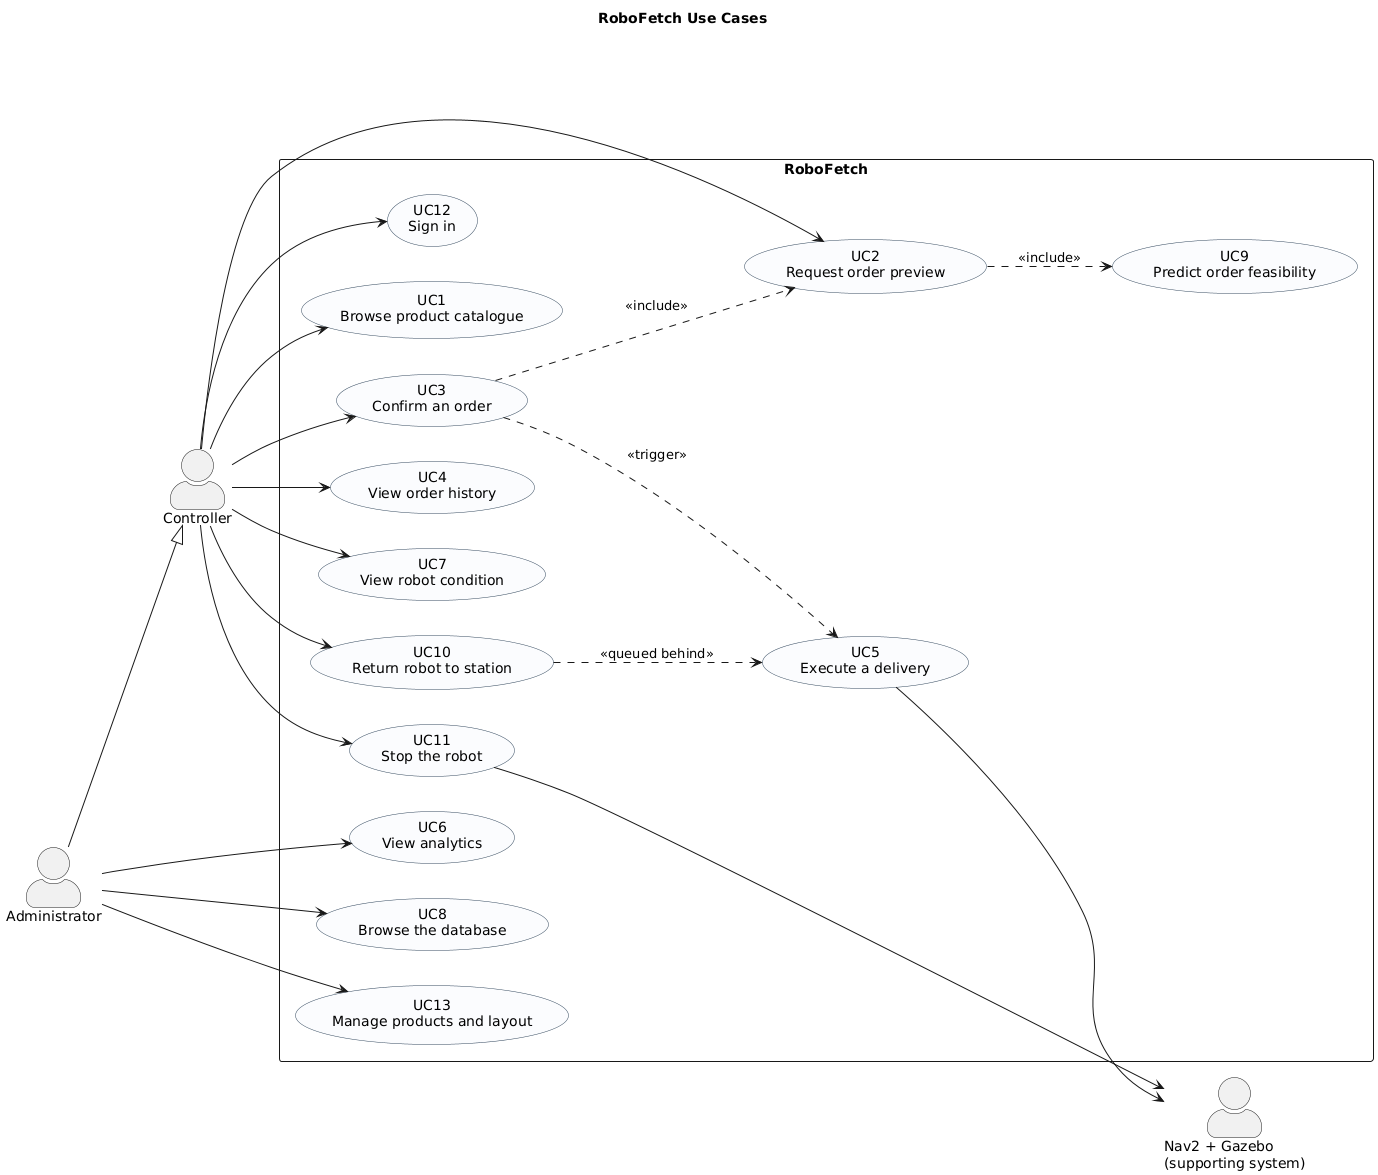
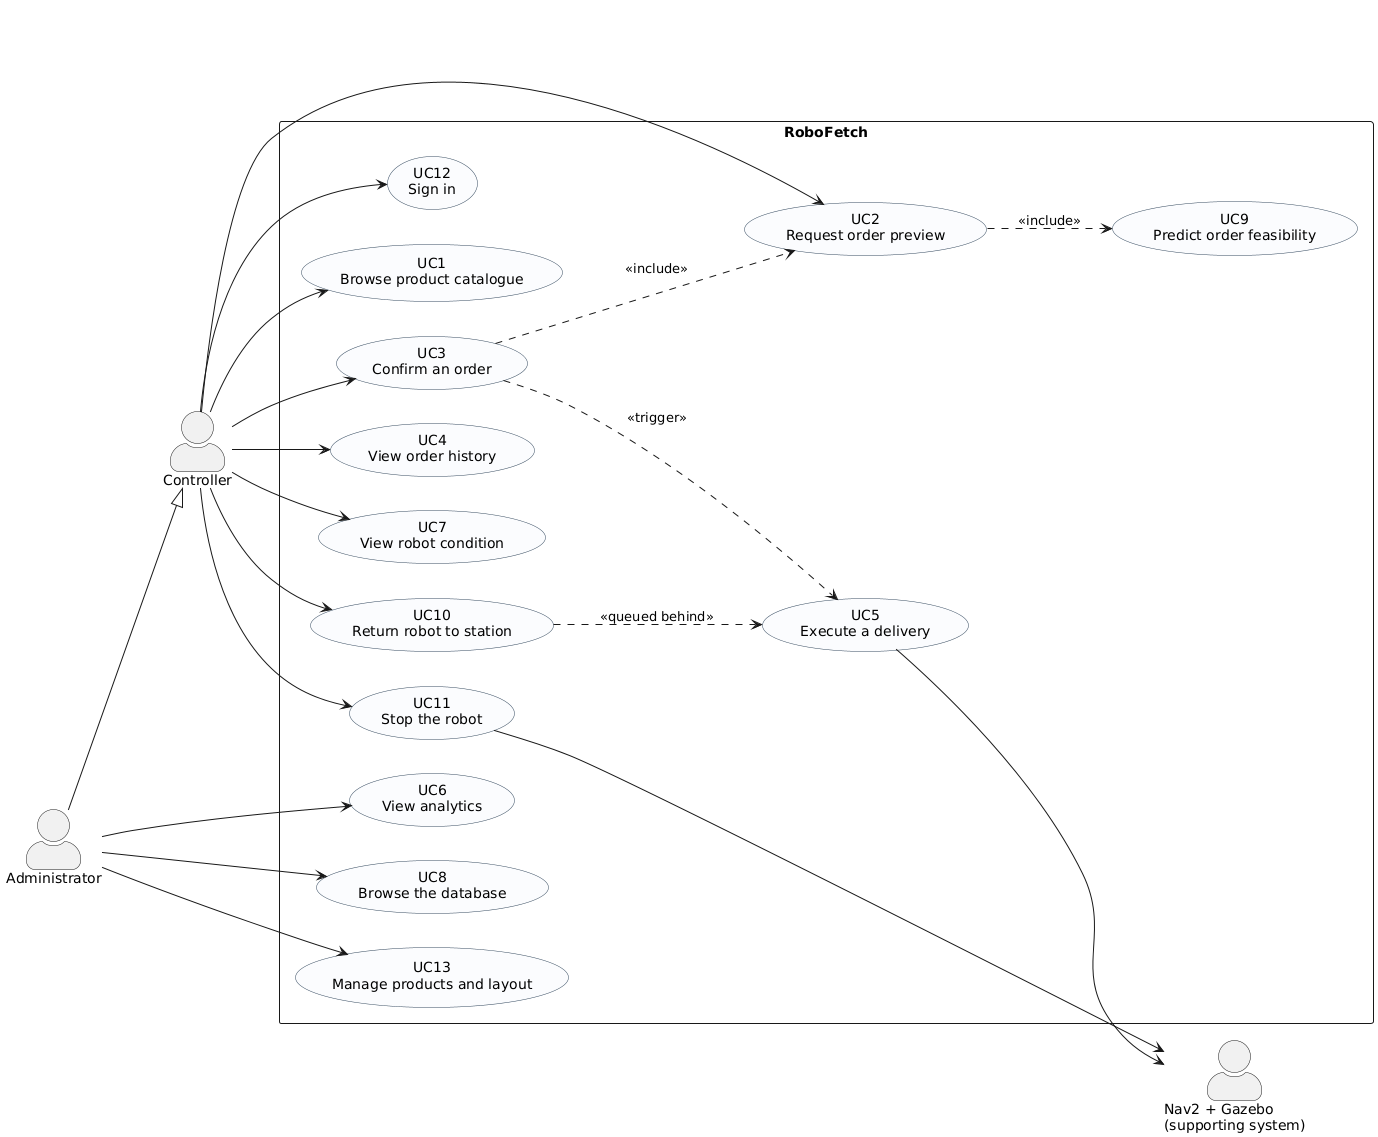
Diagrams: drop the titles and the prose, explain them in the report instead
Every diagram carried a title rendered above it, which duplicated the LaTeX
caption immediately below - the caption is where a figure is named in a report,
so the titles were saying everything twice. Removed from all twelve.

The sequence diagrams also carried paragraphs of explanation as notes. That
text belongs in the report, where it can be read as prose, not baked into an
image where it cannot be edited or searched. The arguments they made - that a
refusal costs one preview because nothing is stored and the robot is never
sent; that the stop writes nothing and so does not survive a logout - are
already carried by the figure captions, so they are removed from the pictures.

Two short annotations survive on the C3 diagram because they mark control flow
rather than argue a point: that the stuck-parcel branch ends the order, and
that a missing measurement counts as failure.

One detail was rescued rather than dropped. The note explaining that the joint
publishes its state only on a TRANSITION, so the subscription must exist before
the release rather than being created at the moment of it, was the only place
that trap was recorded. It is now in the C3 algorithm in the text.

The diagrams are smaller for it: C3 from 157 to 116 kB, the emergency stop from
69 to 58, the refusal from 63 to 53, and the last two are now wider than tall.

diff --git a/report/RoboFetch_Software_Engineering_Report.tex b/report/RoboFetch_Software_Engineering_Report.tex
@@ -1668,7 +1668,10 @@ sequence; the steps are as follows.
   \item Publish a detach message for the parcel, then wait a settling interval.
   \item Read the state the \emph{joint itself} reports. The simulator's detachable joint publishes
         the literal strings \texttt{attached} and \texttt{detached} on its own topic; this is the
-        authority, not the fact that a detach message was sent.
+        authority, not the fact that a detach message was sent. That topic carries a message only
+        when the state \emph{changes}, so the subscription is created when the node starts rather
+        than when a release is requested: a subscriber created at the moment of the release would
+        miss the very transition it exists to observe.
   \item If the joint still reports \texttt{attached}, repeat from step 1, up to three attempts.
   \item If it still will not let go, the order fails, the queued orders are failed with a reason
         rather than left pending, and a recovery routine keeps retrying so that the robot heals
